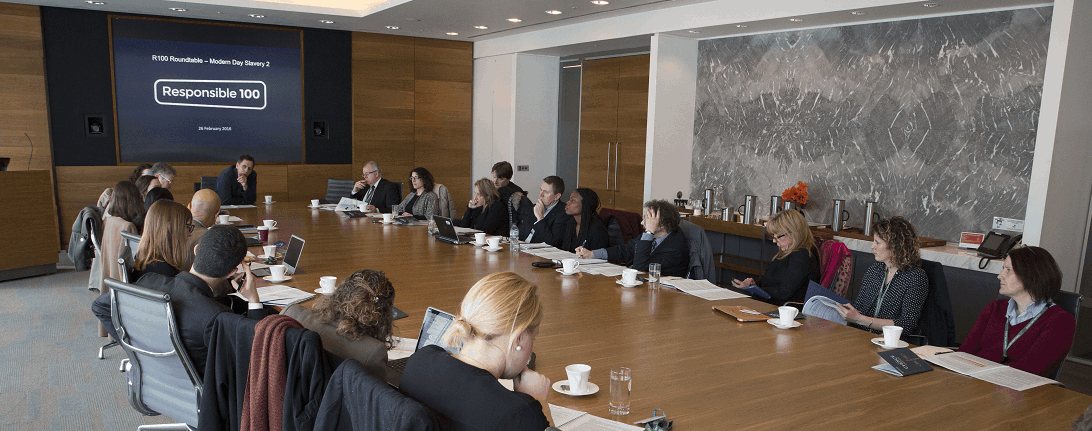
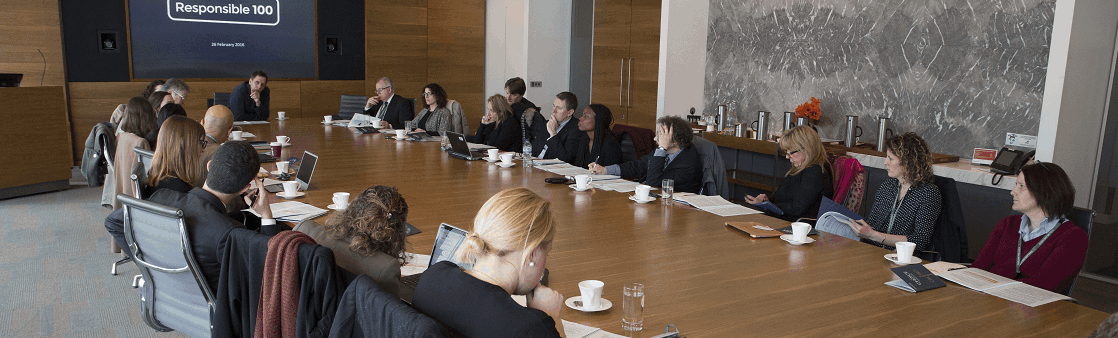
create github pages

diff --git a/page1.html b/page1.html
@@ -25,46 +25,7 @@
   
 </head>
 <body>
-  <section class="menu cid-qTkzRZLJNu" once="menu" id="menu1-d">
-
-    
-
-    <nav class="navbar navbar-expand beta-menu navbar-dropdown align-items-center navbar-fixed-top navbar-toggleable-sm">
-        <button class="navbar-toggler navbar-toggler-right" type="button" data-toggle="collapse" data-target="#navbarSupportedContent" aria-controls="navbarSupportedContent" aria-expanded="false" aria-label="Toggle navigation">
-            <div class="hamburger">
-                <span></span>
-                <span></span>
-                <span></span>
-                <span></span>
-            </div>
-        </button>
-        <div class="menu-logo">
-            <div class="navbar-brand">
-                <span class="navbar-logo">
-                    <a href="https://michsol02.github.io/folder/index.html">
-                         <img src="assets/images/logo-354x111.jpg" alt="Mobirise" title="" style="height: 3.8rem;">
-                    </a>
-                </span>
-                
-            </div>
-        </div>
-        <div class="collapse navbar-collapse" id="navbarSupportedContent">
-            <ul class="navbar-nav nav-dropdown" data-app-modern-menu="true"><li class="nav-item">
-                    <a class="nav-link link text-warning display-4" href="https://mobirise.com"><br></a>
-                </li>
-                <li class="nav-item">
-                    <a class="nav-link link text-warning display-4" href="page1.html"><span class="mbri-question mbr-iconfont mbr-iconfont-btn"></span>
-                        
-                        How It Works</a>
-                </li><li class="nav-item"><a class="nav-link link text-warning display-4" href="page2.html"><span class="mbri-protect mbr-iconfont mbr-iconfont-btn"></span>Who We Work With</a></li></ul>
-            <div class="navbar-buttons mbr-section-btn"><a class="btn btn-sm btn-primary display-4" href="https://docs.google.com/forms/d/e/1FAIpQLSfLA4Fj25P0BePDwd8uB6VTe8TcDhC9quUWfQoJY5Rqnm3dBQ/viewform?entry.1989992238=Not%20relevant%20or%20material&entry.90115000=Not%20relevant%20or%20material&entry.994014265=Not%20relevant%20or%20material&entry.1521738973=Not%20relevant%20or%20material&entry.1014803069=Not%20relevant%20or%20material&entry.2076870950=Not%20relevant%20or%20material&entry.1574678995=Not%20relevant%20or%20material&entry.1062102507=Not%20relevant%20or%20material&entry.1585015661=Not%20relevant%20or%20material&entry.1802545029=Not%20relevant%20or%20material&entry.663423791=Not%20relevant%20or%20material&entry.933563617=Not%20relevant%20or%20material&entry.675633623=Not%20relevant%20or%20material&entry.1549858079=Not%20relevant%20or%20material&entry.1248342225=Not%20relevant%20or%20material&entry.725835280=Not%20relevant%20or%20material&entry.949846365=Not%20relevant%20or%20material&entry.1409308477=Not%20relevant%20or%20material&entry.343148658=Not%20relevant%20or%20material&entry.1946793288=Not%20relevant%20or%20material&entry.918831368=Not%20relevant%20or%20material&entry.1558640961=Not%20relevant%20or%20material&entry.299918694=Not%20relevant%20or%20material&entry.59570611=Not%20relevant%20or%20material&entry.1123715176=Not%20relevant%20or%20material&entry.322573857=Not%20relevant%20or%20material&entry.1872424361=Not%20relevant%20or%20material&entry.1561334141=Not%20relevant%20or%20material&entry.1154818720=Not%20relevant%20or%20material&entry.431037819=Not%20relevant%20or%20material&entry.964156776=Not%20relevant%20or%20material&entry.1735933762=Not%20relevant%20or%20material&entry.270535709=Not%20relevant%20or%20material&entry.1637034147=Not%20relevant%20or%20material&entry.1763836349=Not%20relevant%20or%20material&entry.943011600=Not%20relevant%20or%20material&entry.313536270=Not%20relevant%20or%20material&entry.1166773240=Not%20relevant%20or%20material&entry.831936071=Not%20relevant%20or%20material&entry.72361584=Not%20relevant%20or%20material&entry.1457050679=Not%20relevant%20or%20material&entry.1335763106=Not%20relevant%20or%20material&entry.1804612844=Not%20relevant%20or%20material&entry.1982916791=Not%20relevant%20or%20material&entry.1272839902=Not%20relevant%20or%20material&entry.1161901734=Not%20relevant%20or%20material&entry.2070665894=Not%20relevant%20or%20material&entry.1607234097=Not%20relevant%20or%20material&entry.1291430813=Not%20relevant%20or%20material&entry.2093904975=Not%20relevant%20or%20material&entry.1325867948=Not%20relevant%20or%20material&entry.14616319=Not%20relevant%20or%20material&entry.1927398321=Not%20relevant%20or%20material&entry.582656468=Not%20relevant%20or%20material&entry.1808165949=Not%20relevant%20or%20material&entry.620756333=Not%20relevant%20or%20material&entry.1208457754=Not%20relevant%20or%20material&entry.1425374567=Not%20relevant%20or%20material" target="_blank"><span class="mbri-rocket mbr-iconfont mbr-iconfont-btn"></span>
-                    Try It Now!
-                </a></div>
-        </div>
-    </nav>
-</section>
-
-<section class="engine"><a href="https://mobirise.info/v">html templates</a></section><section class="header1 cid-s1vhiCq0ke mbr-parallax-background" id="header1-t">
+  <section class="header1 cid-s1vhiCq0ke mbr-parallax-background" id="header1-t">
 
     
 
@@ -84,7 +45,7 @@
 
 </section>
 
-<section class="mbr-section article content9 cid-s1vhFFK2GJ" id="content9-u">
+<section class="engine"><a href="https://mobirise.info/n">simple website templates</a></section><section class="mbr-section article content9 cid-s1vhFFK2GJ" id="content9-u">
     
      
 
@@ -208,6 +169,45 @@
             </div>
         </div>
     </div>
+</section>
+
+<section class="menu cid-qTkzRZLJNu" once="menu" id="menu1-d">
+
+    
+
+    <nav class="navbar navbar-expand beta-menu navbar-dropdown align-items-center navbar-fixed-top navbar-toggleable-sm">
+        <button class="navbar-toggler navbar-toggler-right" type="button" data-toggle="collapse" data-target="#navbarSupportedContent" aria-controls="navbarSupportedContent" aria-expanded="false" aria-label="Toggle navigation">
+            <div class="hamburger">
+                <span></span>
+                <span></span>
+                <span></span>
+                <span></span>
+            </div>
+        </button>
+        <div class="menu-logo">
+            <div class="navbar-brand">
+                <span class="navbar-logo">
+                    <a href="https://michsol02.github.io/folder/index.html">
+                         <img src="assets/images/logo-354x111.jpg" alt="Mobirise" title="" style="height: 3.8rem;">
+                    </a>
+                </span>
+                
+            </div>
+        </div>
+        <div class="collapse navbar-collapse" id="navbarSupportedContent">
+            <ul class="navbar-nav nav-dropdown" data-app-modern-menu="true"><li class="nav-item">
+                    <a class="nav-link link text-warning display-4" href="https://mobirise.com"><br></a>
+                </li>
+                <li class="nav-item">
+                    <a class="nav-link link text-warning display-4" href="page1.html"><span class="mbri-question mbr-iconfont mbr-iconfont-btn"></span>
+                        
+                        How It Works</a>
+                </li><li class="nav-item"><a class="nav-link link text-warning display-4" href="page2.html"><span class="mbri-protect mbr-iconfont mbr-iconfont-btn"></span>Who We Work With</a></li></ul>
+            <div class="navbar-buttons mbr-section-btn"><a class="btn btn-sm btn-primary display-4" href="https://docs.google.com/forms/d/e/1FAIpQLSfLA4Fj25P0BePDwd8uB6VTe8TcDhC9quUWfQoJY5Rqnm3dBQ/viewform?entry.1989992238=Not%20relevant%20or%20material&entry.90115000=Not%20relevant%20or%20material&entry.994014265=Not%20relevant%20or%20material&entry.1521738973=Not%20relevant%20or%20material&entry.1014803069=Not%20relevant%20or%20material&entry.2076870950=Not%20relevant%20or%20material&entry.1574678995=Not%20relevant%20or%20material&entry.1062102507=Not%20relevant%20or%20material&entry.1585015661=Not%20relevant%20or%20material&entry.1802545029=Not%20relevant%20or%20material&entry.663423791=Not%20relevant%20or%20material&entry.933563617=Not%20relevant%20or%20material&entry.675633623=Not%20relevant%20or%20material&entry.1549858079=Not%20relevant%20or%20material&entry.1248342225=Not%20relevant%20or%20material&entry.725835280=Not%20relevant%20or%20material&entry.949846365=Not%20relevant%20or%20material&entry.1409308477=Not%20relevant%20or%20material&entry.343148658=Not%20relevant%20or%20material&entry.1946793288=Not%20relevant%20or%20material&entry.918831368=Not%20relevant%20or%20material&entry.1558640961=Not%20relevant%20or%20material&entry.299918694=Not%20relevant%20or%20material&entry.59570611=Not%20relevant%20or%20material&entry.1123715176=Not%20relevant%20or%20material&entry.322573857=Not%20relevant%20or%20material&entry.1872424361=Not%20relevant%20or%20material&entry.1561334141=Not%20relevant%20or%20material&entry.1154818720=Not%20relevant%20or%20material&entry.431037819=Not%20relevant%20or%20material&entry.964156776=Not%20relevant%20or%20material&entry.1735933762=Not%20relevant%20or%20material&entry.270535709=Not%20relevant%20or%20material&entry.1637034147=Not%20relevant%20or%20material&entry.1763836349=Not%20relevant%20or%20material&entry.943011600=Not%20relevant%20or%20material&entry.313536270=Not%20relevant%20or%20material&entry.1166773240=Not%20relevant%20or%20material&entry.831936071=Not%20relevant%20or%20material&entry.72361584=Not%20relevant%20or%20material&entry.1457050679=Not%20relevant%20or%20material&entry.1335763106=Not%20relevant%20or%20material&entry.1804612844=Not%20relevant%20or%20material&entry.1982916791=Not%20relevant%20or%20material&entry.1272839902=Not%20relevant%20or%20material&entry.1161901734=Not%20relevant%20or%20material&entry.2070665894=Not%20relevant%20or%20material&entry.1607234097=Not%20relevant%20or%20material&entry.1291430813=Not%20relevant%20or%20material&entry.2093904975=Not%20relevant%20or%20material&entry.1325867948=Not%20relevant%20or%20material&entry.14616319=Not%20relevant%20or%20material&entry.1927398321=Not%20relevant%20or%20material&entry.582656468=Not%20relevant%20or%20material&entry.1808165949=Not%20relevant%20or%20material&entry.620756333=Not%20relevant%20or%20material&entry.1208457754=Not%20relevant%20or%20material&entry.1425374567=Not%20relevant%20or%20material" target="_blank"><span class="mbri-rocket mbr-iconfont mbr-iconfont-btn"></span>
+                    Try It Now!
+                </a></div>
+        </div>
+    </nav>
 </section>
 
 <section class="cid-s1wkyTQMYE" id="footer1-1a">

diff --git a/page2.html b/page2.html
@@ -25,46 +25,7 @@
   
 </head>
 <body>
-  <section class="menu cid-s1vj8rFOSy" once="menu" id="menu1-x">
-
-    
-
-    <nav class="navbar navbar-expand beta-menu navbar-dropdown align-items-center navbar-fixed-top navbar-toggleable-sm">
-        <button class="navbar-toggler navbar-toggler-right" type="button" data-toggle="collapse" data-target="#navbarSupportedContent" aria-controls="navbarSupportedContent" aria-expanded="false" aria-label="Toggle navigation">
-            <div class="hamburger">
-                <span></span>
-                <span></span>
-                <span></span>
-                <span></span>
-            </div>
-        </button>
-        <div class="menu-logo">
-            <div class="navbar-brand">
-                <span class="navbar-logo">
-                    <a href="https://michsol02.github.io/folder/index.html">
-                         <img src="assets/images/logo-354x111.jpg" alt="Mobirise" title="" style="height: 3.8rem;">
-                    </a>
-                </span>
-                
-            </div>
-        </div>
-        <div class="collapse navbar-collapse" id="navbarSupportedContent">
-            <ul class="navbar-nav nav-dropdown" data-app-modern-menu="true"><li class="nav-item">
-                    <a class="nav-link link text-warning display-4" href="https://mobirise.com"><br></a>
-                </li>
-                <li class="nav-item">
-                    <a class="nav-link link text-warning display-4" href="page1.html"><span class="mbri-question mbr-iconfont mbr-iconfont-btn"></span>
-                        
-                        How It Works</a>
-                </li><li class="nav-item"><a class="nav-link link text-warning display-4" href="page2.html"><span class="mbri-protect mbr-iconfont mbr-iconfont-btn"></span>Who We Work With</a></li></ul>
-            <div class="navbar-buttons mbr-section-btn"><a class="btn btn-sm btn-primary display-4" href="https://docs.google.com/forms/d/e/1FAIpQLSfLA4Fj25P0BePDwd8uB6VTe8TcDhC9quUWfQoJY5Rqnm3dBQ/viewform?entry.1989992238=Not%20relevant%20or%20material&entry.90115000=Not%20relevant%20or%20material&entry.994014265=Not%20relevant%20or%20material&entry.1521738973=Not%20relevant%20or%20material&entry.1014803069=Not%20relevant%20or%20material&entry.2076870950=Not%20relevant%20or%20material&entry.1574678995=Not%20relevant%20or%20material&entry.1062102507=Not%20relevant%20or%20material&entry.1585015661=Not%20relevant%20or%20material&entry.1802545029=Not%20relevant%20or%20material&entry.663423791=Not%20relevant%20or%20material&entry.933563617=Not%20relevant%20or%20material&entry.675633623=Not%20relevant%20or%20material&entry.1549858079=Not%20relevant%20or%20material&entry.1248342225=Not%20relevant%20or%20material&entry.725835280=Not%20relevant%20or%20material&entry.949846365=Not%20relevant%20or%20material&entry.1409308477=Not%20relevant%20or%20material&entry.343148658=Not%20relevant%20or%20material&entry.1946793288=Not%20relevant%20or%20material&entry.918831368=Not%20relevant%20or%20material&entry.1558640961=Not%20relevant%20or%20material&entry.299918694=Not%20relevant%20or%20material&entry.59570611=Not%20relevant%20or%20material&entry.1123715176=Not%20relevant%20or%20material&entry.322573857=Not%20relevant%20or%20material&entry.1872424361=Not%20relevant%20or%20material&entry.1561334141=Not%20relevant%20or%20material&entry.1154818720=Not%20relevant%20or%20material&entry.431037819=Not%20relevant%20or%20material&entry.964156776=Not%20relevant%20or%20material&entry.1735933762=Not%20relevant%20or%20material&entry.270535709=Not%20relevant%20or%20material&entry.1637034147=Not%20relevant%20or%20material&entry.1763836349=Not%20relevant%20or%20material&entry.943011600=Not%20relevant%20or%20material&entry.313536270=Not%20relevant%20or%20material&entry.1166773240=Not%20relevant%20or%20material&entry.831936071=Not%20relevant%20or%20material&entry.72361584=Not%20relevant%20or%20material&entry.1457050679=Not%20relevant%20or%20material&entry.1335763106=Not%20relevant%20or%20material&entry.1804612844=Not%20relevant%20or%20material&entry.1982916791=Not%20relevant%20or%20material&entry.1272839902=Not%20relevant%20or%20material&entry.1161901734=Not%20relevant%20or%20material&entry.2070665894=Not%20relevant%20or%20material&entry.1607234097=Not%20relevant%20or%20material&entry.1291430813=Not%20relevant%20or%20material&entry.2093904975=Not%20relevant%20or%20material&entry.1325867948=Not%20relevant%20or%20material&entry.14616319=Not%20relevant%20or%20material&entry.1927398321=Not%20relevant%20or%20material&entry.582656468=Not%20relevant%20or%20material&entry.1808165949=Not%20relevant%20or%20material&entry.620756333=Not%20relevant%20or%20material&entry.1208457754=Not%20relevant%20or%20material&entry.1425374567=Not%20relevant%20or%20material" target="_blank"><span class="mbri-rocket mbr-iconfont mbr-iconfont-btn"></span>
-                    Try It Now!
-                </a></div>
-        </div>
-    </nav>
-</section>
-
-<section class="engine"><a href="https://mobirise.info/a">online website builder</a></section><section class="header1 cid-s1vj8pCgVF mbr-parallax-background" id="header1-v">
+  <section class="header1 cid-s1vj8pCgVF mbr-parallax-background" id="header1-v">
 
     
 
@@ -84,7 +45,7 @@
 
 </section>
 
-<section class="step1 cid-s1w4z73Rh9" id="step1-16">
+<section class="engine"><a href="https://mobirise.info/z">best html templates</a></section><section class="step1 cid-s1w4z73Rh9" id="step1-16">
 
     
 
@@ -222,6 +183,45 @@
             </div>
         </div>
     </div>
+</section>
+
+<section class="menu cid-s1vj8rFOSy" once="menu" id="menu1-x">
+
+    
+
+    <nav class="navbar navbar-expand beta-menu navbar-dropdown align-items-center navbar-fixed-top navbar-toggleable-sm">
+        <button class="navbar-toggler navbar-toggler-right" type="button" data-toggle="collapse" data-target="#navbarSupportedContent" aria-controls="navbarSupportedContent" aria-expanded="false" aria-label="Toggle navigation">
+            <div class="hamburger">
+                <span></span>
+                <span></span>
+                <span></span>
+                <span></span>
+            </div>
+        </button>
+        <div class="menu-logo">
+            <div class="navbar-brand">
+                <span class="navbar-logo">
+                    <a href="https://michsol02.github.io/folder/index.html">
+                         <img src="assets/images/logo-354x111.jpg" alt="Mobirise" title="" style="height: 3.8rem;">
+                    </a>
+                </span>
+                
+            </div>
+        </div>
+        <div class="collapse navbar-collapse" id="navbarSupportedContent">
+            <ul class="navbar-nav nav-dropdown" data-app-modern-menu="true"><li class="nav-item">
+                    <a class="nav-link link text-warning display-4" href="https://mobirise.com"><br></a>
+                </li>
+                <li class="nav-item">
+                    <a class="nav-link link text-warning display-4" href="page1.html"><span class="mbri-question mbr-iconfont mbr-iconfont-btn"></span>
+                        
+                        How It Works</a>
+                </li><li class="nav-item"><a class="nav-link link text-warning display-4" href="page2.html"><span class="mbri-protect mbr-iconfont mbr-iconfont-btn"></span>Who We Work With</a></li></ul>
+            <div class="navbar-buttons mbr-section-btn"><a class="btn btn-sm btn-primary display-4" href="https://docs.google.com/forms/d/e/1FAIpQLSfLA4Fj25P0BePDwd8uB6VTe8TcDhC9quUWfQoJY5Rqnm3dBQ/viewform?entry.1989992238=Not%20relevant%20or%20material&entry.90115000=Not%20relevant%20or%20material&entry.994014265=Not%20relevant%20or%20material&entry.1521738973=Not%20relevant%20or%20material&entry.1014803069=Not%20relevant%20or%20material&entry.2076870950=Not%20relevant%20or%20material&entry.1574678995=Not%20relevant%20or%20material&entry.1062102507=Not%20relevant%20or%20material&entry.1585015661=Not%20relevant%20or%20material&entry.1802545029=Not%20relevant%20or%20material&entry.663423791=Not%20relevant%20or%20material&entry.933563617=Not%20relevant%20or%20material&entry.675633623=Not%20relevant%20or%20material&entry.1549858079=Not%20relevant%20or%20material&entry.1248342225=Not%20relevant%20or%20material&entry.725835280=Not%20relevant%20or%20material&entry.949846365=Not%20relevant%20or%20material&entry.1409308477=Not%20relevant%20or%20material&entry.343148658=Not%20relevant%20or%20material&entry.1946793288=Not%20relevant%20or%20material&entry.918831368=Not%20relevant%20or%20material&entry.1558640961=Not%20relevant%20or%20material&entry.299918694=Not%20relevant%20or%20material&entry.59570611=Not%20relevant%20or%20material&entry.1123715176=Not%20relevant%20or%20material&entry.322573857=Not%20relevant%20or%20material&entry.1872424361=Not%20relevant%20or%20material&entry.1561334141=Not%20relevant%20or%20material&entry.1154818720=Not%20relevant%20or%20material&entry.431037819=Not%20relevant%20or%20material&entry.964156776=Not%20relevant%20or%20material&entry.1735933762=Not%20relevant%20or%20material&entry.270535709=Not%20relevant%20or%20material&entry.1637034147=Not%20relevant%20or%20material&entry.1763836349=Not%20relevant%20or%20material&entry.943011600=Not%20relevant%20or%20material&entry.313536270=Not%20relevant%20or%20material&entry.1166773240=Not%20relevant%20or%20material&entry.831936071=Not%20relevant%20or%20material&entry.72361584=Not%20relevant%20or%20material&entry.1457050679=Not%20relevant%20or%20material&entry.1335763106=Not%20relevant%20or%20material&entry.1804612844=Not%20relevant%20or%20material&entry.1982916791=Not%20relevant%20or%20material&entry.1272839902=Not%20relevant%20or%20material&entry.1161901734=Not%20relevant%20or%20material&entry.2070665894=Not%20relevant%20or%20material&entry.1607234097=Not%20relevant%20or%20material&entry.1291430813=Not%20relevant%20or%20material&entry.2093904975=Not%20relevant%20or%20material&entry.1325867948=Not%20relevant%20or%20material&entry.14616319=Not%20relevant%20or%20material&entry.1927398321=Not%20relevant%20or%20material&entry.582656468=Not%20relevant%20or%20material&entry.1808165949=Not%20relevant%20or%20material&entry.620756333=Not%20relevant%20or%20material&entry.1208457754=Not%20relevant%20or%20material&entry.1425374567=Not%20relevant%20or%20material" target="_blank"><span class="mbri-rocket mbr-iconfont mbr-iconfont-btn"></span>
+                    Try It Now!
+                </a></div>
+        </div>
+    </nav>
 </section>
 
 <section class="cid-s1wkEMZZvX" id="footer1-1b">

diff --git a/index.html b/index.html
@@ -64,7 +64,7 @@
     </nav>
 </section>
 
-<section class="engine"><a href="https://mobirise.info/q">free responsive website templates</a></section><section class="cid-qTkA127IK8 mbr-parallax-background" id="header2-1">
+<section class="engine"><a href="https://mobirise.info/c">web builder</a></section><section class="cid-qTkA127IK8 mbr-parallax-background" id="header2-1">
 
     
 
@@ -175,7 +175,7 @@
                 <h2 class="mbr-section-title pb-3 align-left mbr-fonts-style display-2">Progress to date...</h2>
                 <h3 class="mbr-section-subtitle pb-5 align-left mbr-fonts-style display-5">Responsible 100 has been quietly building a brilliant tool to fix the way the world works</h3>
                 <div class="mbr-figure">
-                    <img src="assets/images/rt-selection-3-1-757x860.png" alt="" title="">
+                    <img src="assets/images/rt-selection-3-cropped-555x575.jpg" alt="" title="">
                 </div>
             </div>
             <div class="cards-block">

diff --git a/assets/mobirise/css/mbr-additional.css b/assets/mobirise/css/mbr-additional.css
@@ -1147,10 +1147,10 @@ section.lazy-placeholder:after {
 .cid-s1piVw8b2R {
   padding-top: 75px;
   padding-bottom: 60px;
-  background-image: url("../../../assets/images/rt-selection-1-1152x768.png");
+  background-image: url("../../../assets/images/rt-selection-8-1152x768.png");
 }
 .cid-s1l1tEWmWO {
-  padding-top: 90px;
+  padding-top: 30px;
   padding-bottom: 90px;
   background-color: #ffffff;
 }
